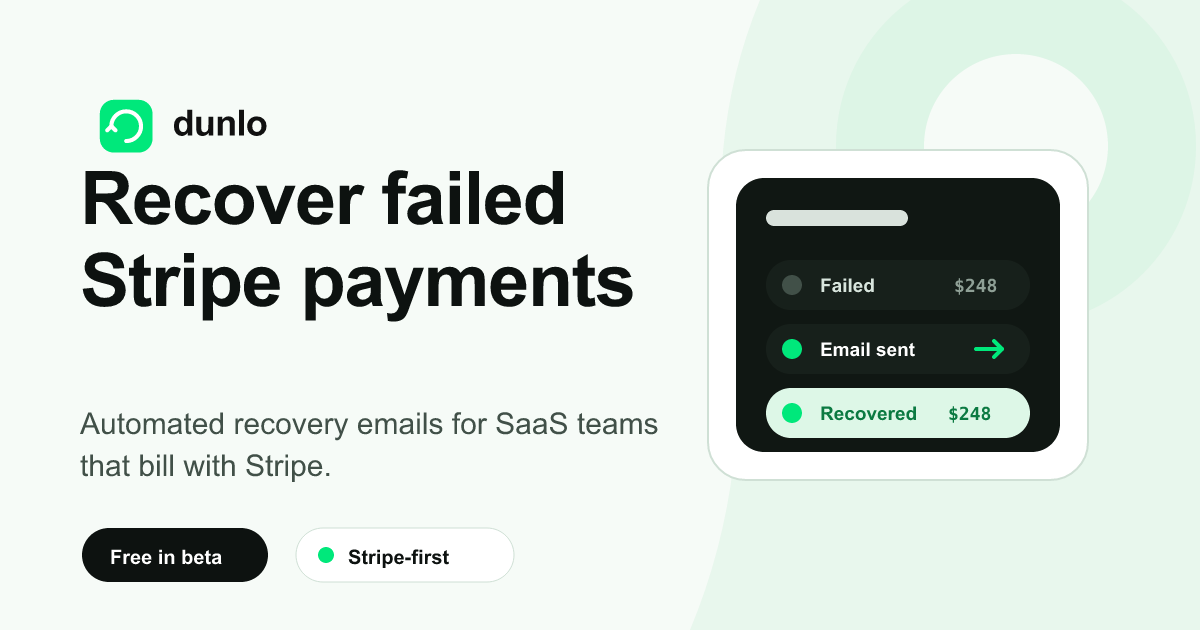
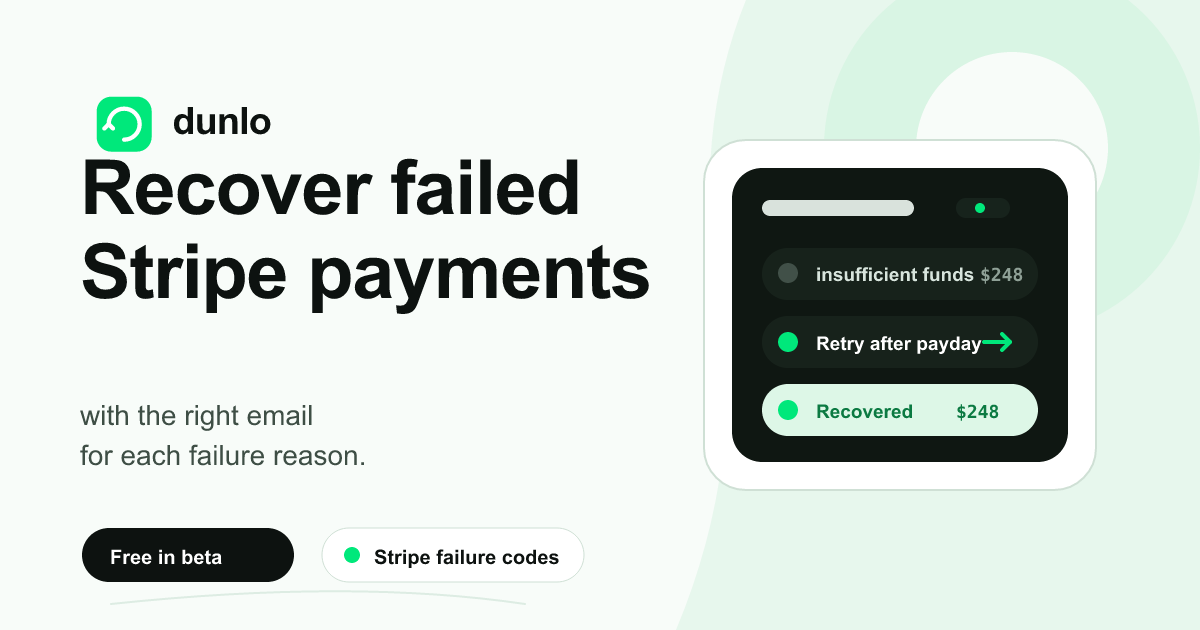
Fix Dunlo OG social preview

diff --git a/apps/web/src/lib/seo.test.ts b/apps/web/src/lib/seo.test.ts
@@ -1,0 +1,47 @@
+import { readFileSync } from "node:fs";
+import { join } from "node:path";
+import { describe, expect, test } from "vitest";
+import { DEFAULT_OG_IMAGE, DEFAULT_OG_IMAGE_ALT, ogMeta } from "./seo";
+
+const brandDir = join(process.cwd(), "public", "brand");
+
+function readPngDimensions(path: string) {
+  const png = readFileSync(path);
+
+  return {
+    width: png.readUInt32BE(16),
+    height: png.readUInt32BE(20),
+  };
+}
+
+describe("social preview metadata", () => {
+  test("uses the canonical high-contrast OG image for social cards", () => {
+    const tags = ogMeta({
+      title: "Dunlo",
+      description: "Stripe payment recovery for SaaS.",
+    });
+
+    expect(tags).toContainEqual({
+      property: "og:image",
+      content: "https://dunlo.io/brand/dunlo-og.png",
+    });
+    expect(tags).toContainEqual({ property: "og:image:width", content: "1200" });
+    expect(tags).toContainEqual({ property: "og:image:height", content: "630" });
+    expect(tags).toContainEqual({
+      name: "twitter:image",
+      content: DEFAULT_OG_IMAGE,
+    });
+    expect(DEFAULT_OG_IMAGE_ALT).toMatch(/failure[- ]reason/i);
+  });
+
+  test("ships a 1200x630 OG asset with the failure-reason tagline", () => {
+    const pngDimensions = readPngDimensions(join(brandDir, "dunlo-og.png"));
+    const svg = readFileSync(join(brandDir, "dunlo-og.svg"), "utf8");
+
+    expect(pngDimensions).toEqual({ width: 1200, height: 630 });
+    expect(svg).toContain("Recover failed Stripe payments");
+    expect(svg).toContain(
+      "with the right email for each failure reason.",
+    );
+  });
+});

diff --git a/apps/web/src/lib/seo.ts b/apps/web/src/lib/seo.ts
@@ -6,7 +6,7 @@ export const DEFAULT_DESCRIPTION =
   "Dunlo helps SaaS founders recover failed Stripe payments with failure-code-specific emails, founder escalation for high-value accounts, and clear recovered-revenue tracking.";
 export const DEFAULT_OG_IMAGE = `${SITE_URL}/brand/dunlo-og.png`;
 export const DEFAULT_OG_IMAGE_ALT =
-  "Dunlo social preview showing Stripe payment recovery metrics";
+  "Dunlo social preview showing failure-reason-specific Stripe payment recovery";
 
 export function absoluteUrl(path = "/") {
   return `${SITE_URL}${path.startsWith("/") ? path : `/${path}`}`;
